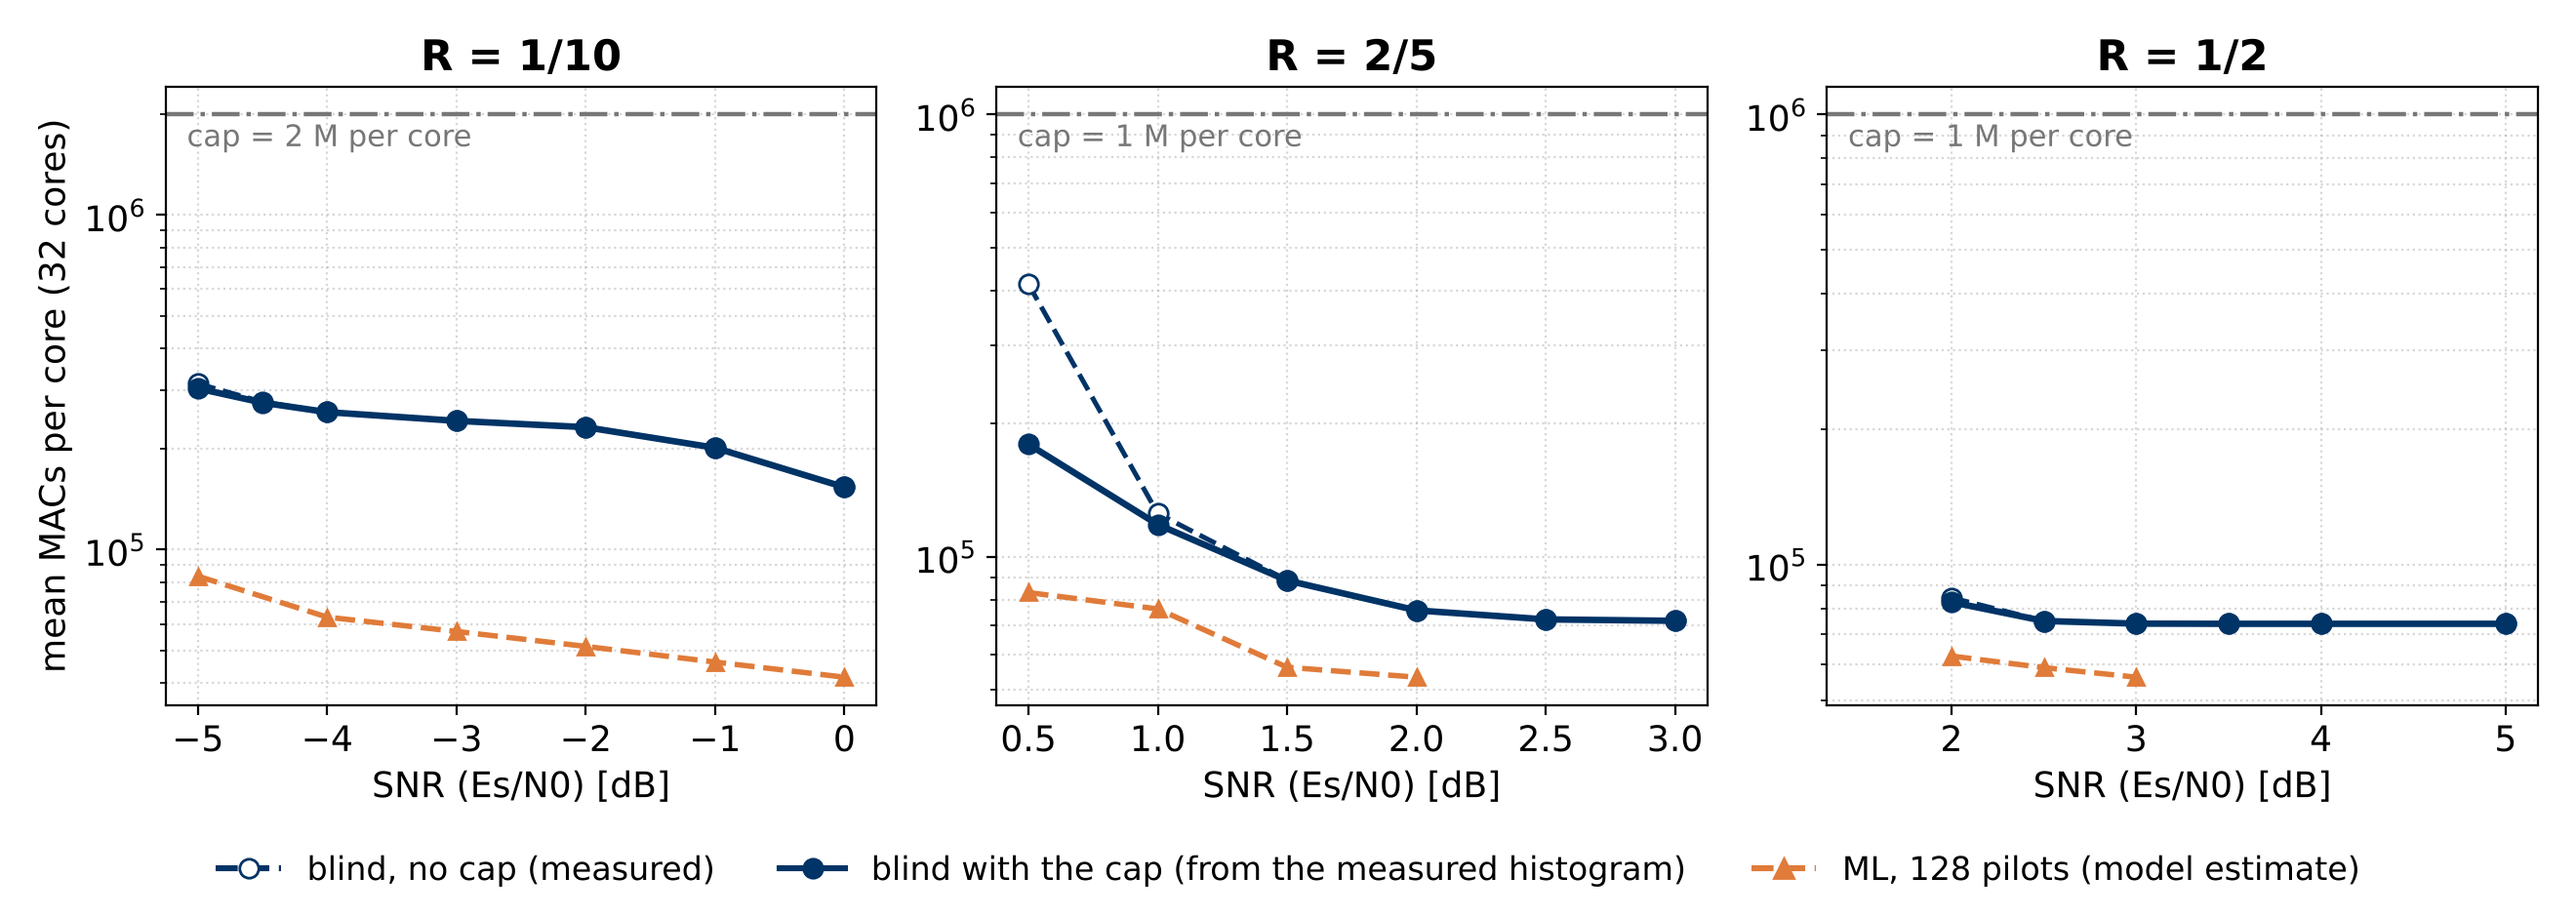
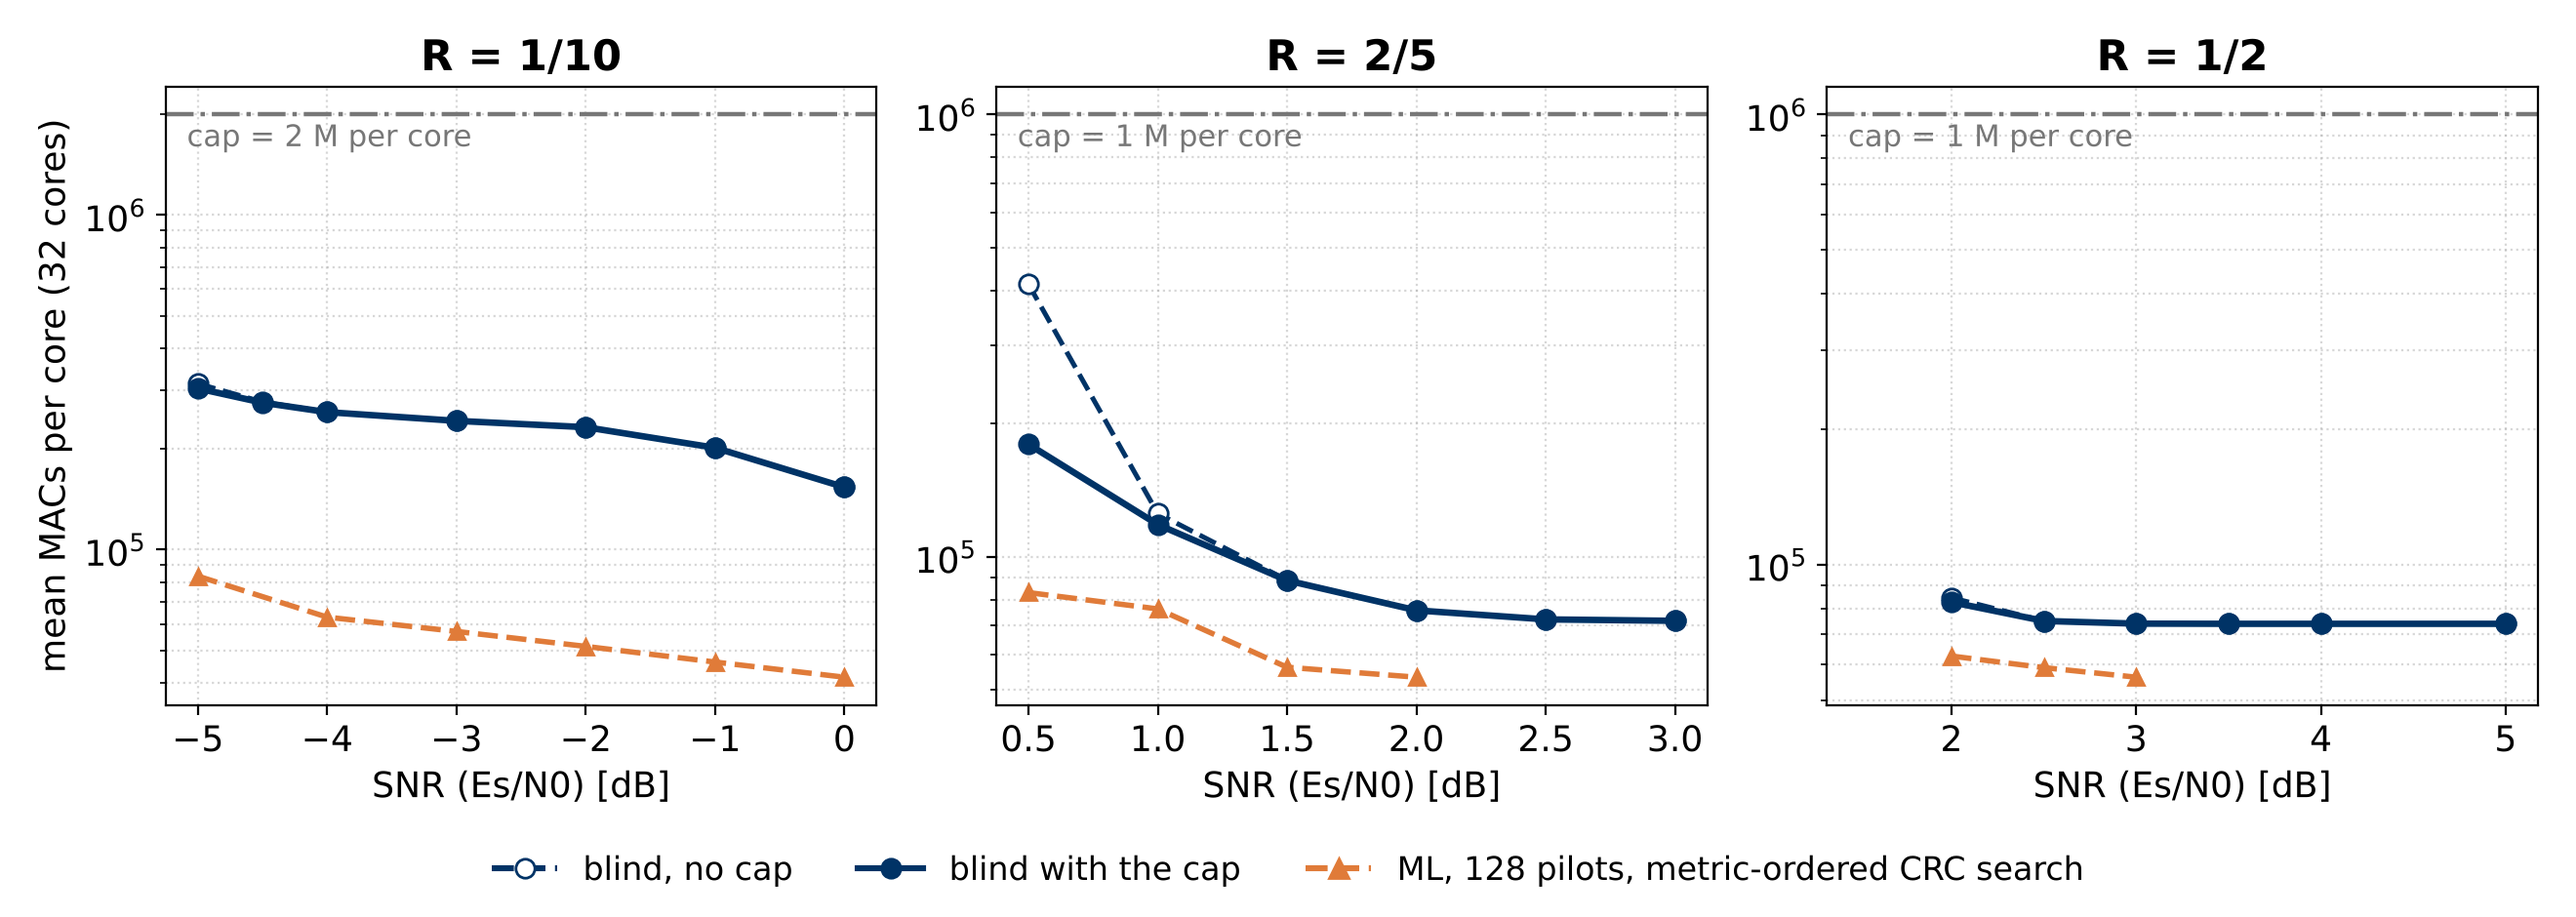
Slide MAC figures: drop the measured / model-estimate tags from the legends
Claude-Session: https://claude.ai/code/session_01Uut9iw5SnA6a3eeYDv3vkc

Changed region(s): [[0.0932, 0.9255, 0.9318, 0.9564]]

diff --git a/slides_eq/plot_results.py b/slides_eq/plot_results.py
@@ -121,7 +121,7 @@ def macs_snr():
                 ax.set_xlabel("SNR (Es/N0) [dB]")
             xlim(ax, rate)
     fig.legend([line(NAVY, "-", "o"), line(ORANGE, "--", "^")],
-               ["blind, 0 pilots (measured MAC counts)", PILOT + ", 4 decodes at once (model estimate)"],
+               ["blind, 0 pilots", PILOT + ", 4 decodes at once"],
                loc="lower center", ncol=2, fontsize=12, frameon=False)
     fig.tight_layout(rect=(0, 0.06, 1, 1))
     fig.savefig(os.path.join(HERE, "macs_snr.png"), dpi=200, facecolor="white")
@@ -158,8 +158,8 @@ def macs_cap():
         print(rate, [(r[0], round(r[1] / 1e6, 3), round(r[2] / 1e6, 3), r[3], r[4]) for r in rows])
     axs[0].set_ylabel("mean MACs per core (32 cores)")
     finish(fig, axs, [line(NAVY, "--", "o", "white"), line(NAVY, "-", "o"), line(ORANGE, "--", "^")],
-           ["blind, no cap (measured)", "blind with the cap (from the measured histogram)",
-            "ML, 128 pilots (model estimate)"], ncol=3)
+           ["blind, no cap", "blind with the cap",
+            PILOT], ncol=3)
     fig.tight_layout(rect=(0, 0.08, 1, 1))
     fig.savefig(os.path.join(HERE, "macs_cap.png"), dpi=200, facecolor="white")
 
